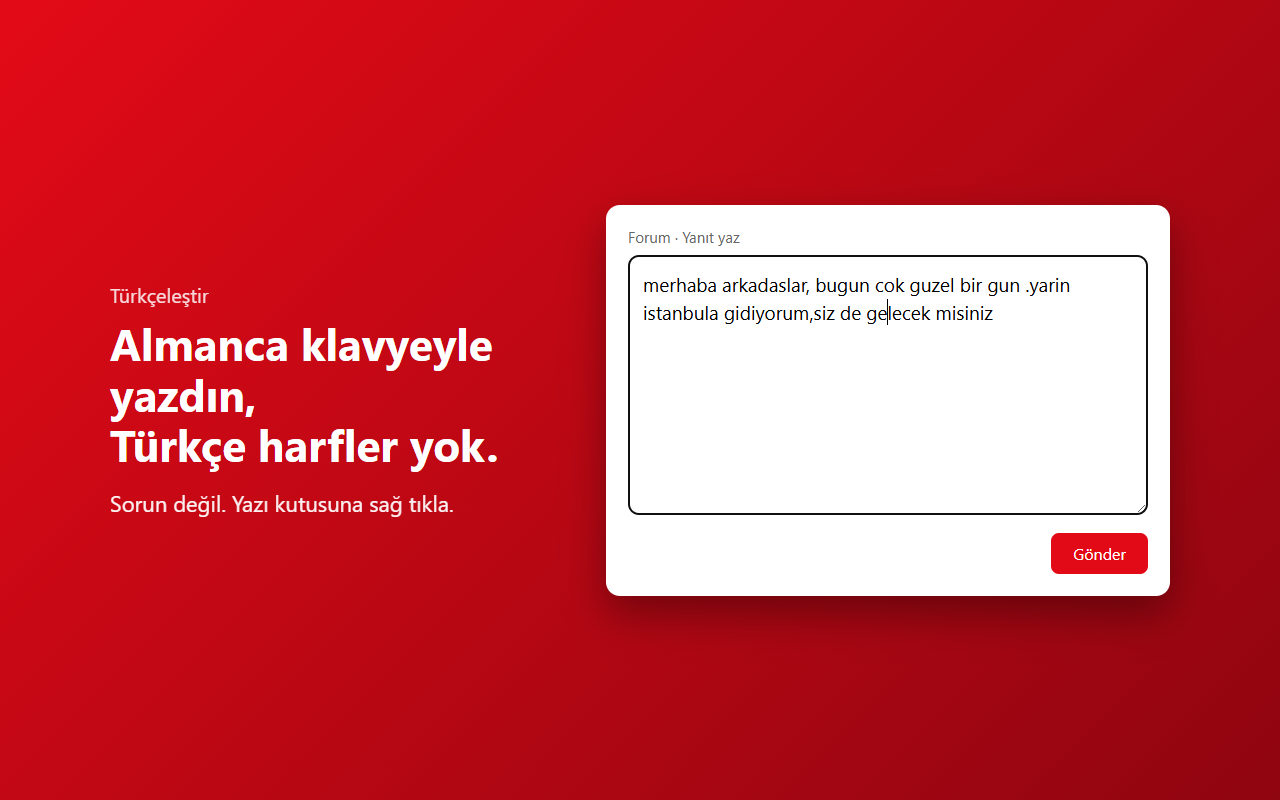
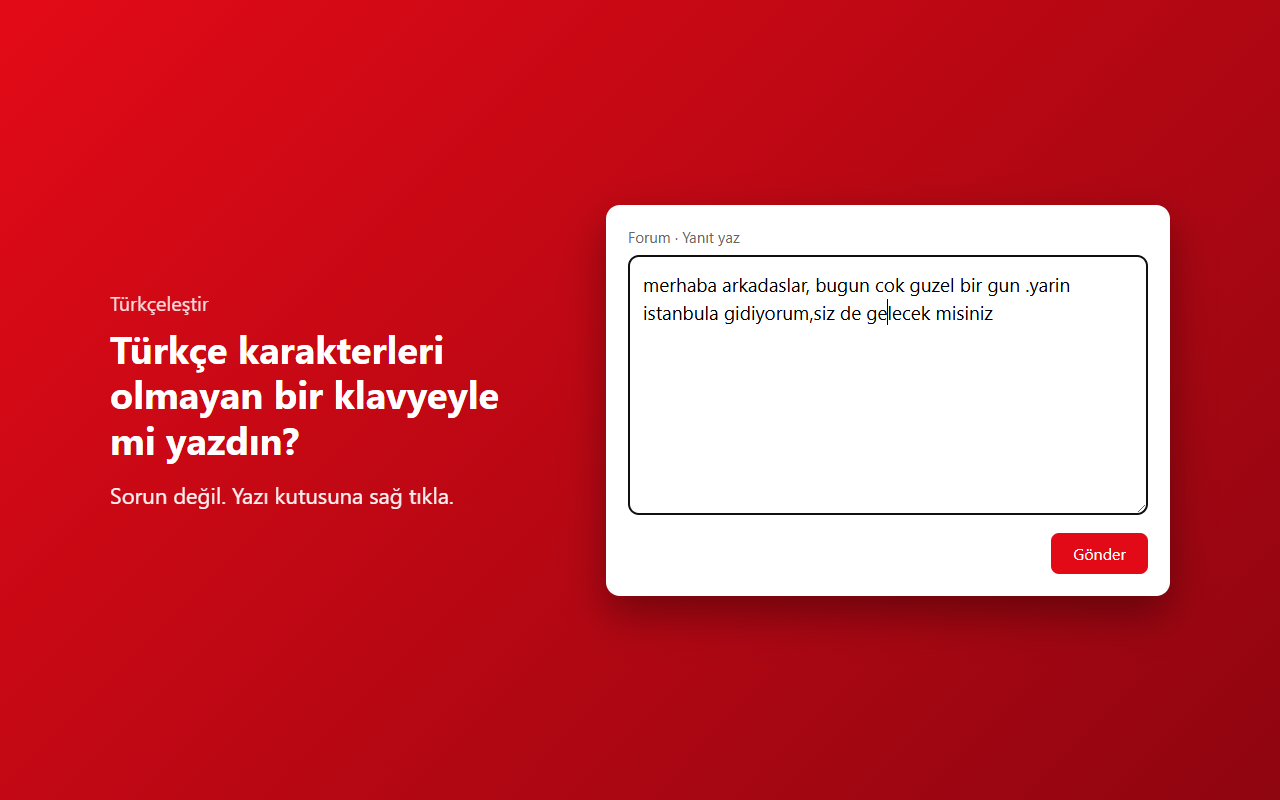
Yeni ikon (Georgia ğ, degrade), daha doğal mağaza metinleri, yazım çizgisiz ekran görüntüleri

Changed region(s): [[0.0625, 0.3438, 0.4062, 0.6562]]

diff --git a/tools/magaza-ekran.js b/tools/magaza-ekran.js
@@ -9,12 +9,12 @@ const CIKTI = 'D:/Projects/turkcelestir/magaza';
 const SAYFA = (metin, baslik, alt) => `<!doctype html><html lang="tr"><meta charset="utf-8"><body style="margin:0;width:1280px;height:800px;font-family:'Segoe UI',system-ui,sans-serif;background:linear-gradient(135deg,#e30a17,#8f0510);color:#fff;display:flex;align-items:center;justify-content:center;gap:56px">
 <div style="width:440px">
   <div style="font-size:20px;opacity:.85;margin-bottom:10px">Türkçeleştir</div>
-  <div style="font-size:44px;font-weight:700;line-height:1.15">${baslik}</div>
+  <div style="font-size:38px;font-weight:700;line-height:1.2">${baslik}</div>
   <div style="font-size:22px;margin-top:18px;opacity:.95;line-height:1.4">${alt}</div>
 </div>
 <div style="width:520px;background:#fff;color:#1d1d1f;border-radius:14px;padding:22px;box-shadow:0 18px 40px rgba(0,0,0,.35)">
   <div style="font-size:15px;color:#666;margin-bottom:8px">Forum · Yanıt yaz</div>
-  <textarea id="kutu" style="width:100%;box-sizing:border-box;height:260px;font:19px/1.5 'Segoe UI',system-ui,sans-serif;padding:14px;border:1px solid #bbb;border-radius:10px">${metin}</textarea>
+  <textarea id="kutu" spellcheck="false" style="width:100%;box-sizing:border-box;height:260px;font:19px/1.5 'Segoe UI',system-ui,sans-serif;padding:14px;border:1px solid #bbb;border-radius:10px">${metin}</textarea>
   <div style="margin-top:14px;display:flex;justify-content:flex-end"><span style="background:#e30a17;color:#fff;padding:10px 22px;border-radius:8px;font-size:16px">Gönder</span></div>
 </div></body></html>`;
 
@@ -22,8 +22,8 @@ const ILK = 'merhaba arkadaslar, bugun cok guzel bir gun .yarin istanbula gidiyo
 const SONRA = 'Merhaba arkadaşlar, bugün çok güzel bir gün. Yarın İstanbul\'a gidiyorum, siz de gelecek misiniz?';
 
 const ekranlar = [
-  { ad: '1-once.png', baslik: 'Almanca klavyeyle yazdın,<br>Türkçe harfler yok.', alt: 'Sorun değil. Yazı kutusuna sağ tıkla.', metin: ILK, duzelt: false },
-  { ad: '2-sonra.png', baslik: 'Sağ tık → Türkçeleştir.<br>Bitti.', alt: 'Türkçe harfler, büyük harf ve noktalama düzelir. Kelimeler değişmez.', metin: ILK, duzelt: true },
+  { ad: '1-once.png', baslik: 'Türkçe karakterleri olmayan bir klavyeyle mi yazdın?', alt: 'Sorun değil. Yazı kutusuna sağ tıkla.', metin: ILK, duzelt: false },
+  { ad: '2-sonra.png', baslik: 'Harfler, büyük harf ve noktalama tek tıkla düzelir.', alt: 'Yapay zekâ seçeneği (deneysel) yazım hatalarını ve virgülleri de düzeltir. Kelimelerin hep aynı kalır.', metin: ILK, duzelt: true },
 ];
 
 http.createServer((q, r) => { r.setHeader('content-type', 'text/html; charset=utf-8'); r.end(q.url.includes('sonra') ? '' : ''); }).listen(8831);

diff --git a/tools/ikon.py b/tools/ikon.py
@@ -1,14 +1,39 @@
 # Eklenti ikonlarını üretir: python tools/ikon.py
-from PIL import Image, ImageDraw, ImageFont
+# Kırmızı degrade zemin, üstte hafif parlama, gölgeli beyaz "ğ" (Georgia Bold).
+from PIL import Image, ImageDraw, ImageFont, ImageFilter
 import os
 
 hedef = os.path.join(os.path.dirname(__file__), '..', 'eklenti', 'ikon')
-for boyut in (16, 32, 48, 128):
+FONT = 'C:/Windows/Fonts/georgiab.ttf'
+UST, ALT = (255, 66, 56), (168, 4, 20)
+
+
+def ikon(boyut):
     b = boyut * 4  # büyük çiz, küçült (yumuşak kenar)
+    zemin = Image.new('RGBA', (b, b))
+    px = zemin.load()
+    for y in range(b):
+        for x in range(b):
+            t = (x * 0.35 + y * 0.65) / b
+            px[x, y] = tuple(int(UST[i] + (ALT[i] - UST[i]) * t) for i in range(3)) + (255,)
+    maske = Image.new('L', (b, b), 0)
+    ImageDraw.Draw(maske).rounded_rectangle((0, 0, b - 1, b - 1), radius=b * 22 // 100, fill=255)
     im = Image.new('RGBA', (b, b), (0, 0, 0, 0))
-    d = ImageDraw.Draw(im)
-    d.rounded_rectangle((0, 0, b - 1, b - 1), radius=b // 5, fill=(227, 10, 23, 255))
-    font = ImageFont.truetype('C:/Windows/Fonts/segoeuib.ttf', int(b * 0.78))
-    d.text((b / 2, b * 0.40), 'ğ', font=font, fill='white', anchor='mm')
-    im.resize((boyut, boyut), Image.LANCZOS).save(os.path.join(hedef, f'{boyut}.png'))
+    im.paste(zemin, (0, 0), maske)
+
+    parla = Image.new('RGBA', (b, b), (0, 0, 0, 0))
+    ImageDraw.Draw(parla).ellipse((-b * 0.2, -b * 0.75, b * 1.2, b * 0.45), fill=(255, 255, 255, 38))
+    parla.putalpha(Image.composite(parla.getchannel('A'), Image.new('L', (b, b), 0), maske))
+    im = Image.alpha_composite(im, parla)
+
+    font = ImageFont.truetype(FONT, int(b * 0.80))
+    golge = Image.new('RGBA', (b, b), (0, 0, 0, 0))
+    ImageDraw.Draw(golge).text((b / 2, b * 0.465), 'ğ', font=font, fill=(90, 0, 10, 140), anchor='mm')
+    im = Image.alpha_composite(im, golge.filter(ImageFilter.GaussianBlur(b * 0.012)))
+    ImageDraw.Draw(im).text((b / 2, b * 0.44), 'ğ', font=font, fill='white', anchor='mm')
+    return im.resize((boyut, boyut), Image.LANCZOS)
+
+
+for boyut in (16, 32, 48, 128):
+    ikon(boyut).save(os.path.join(hedef, f'{boyut}.png'))
 print('tamam')
